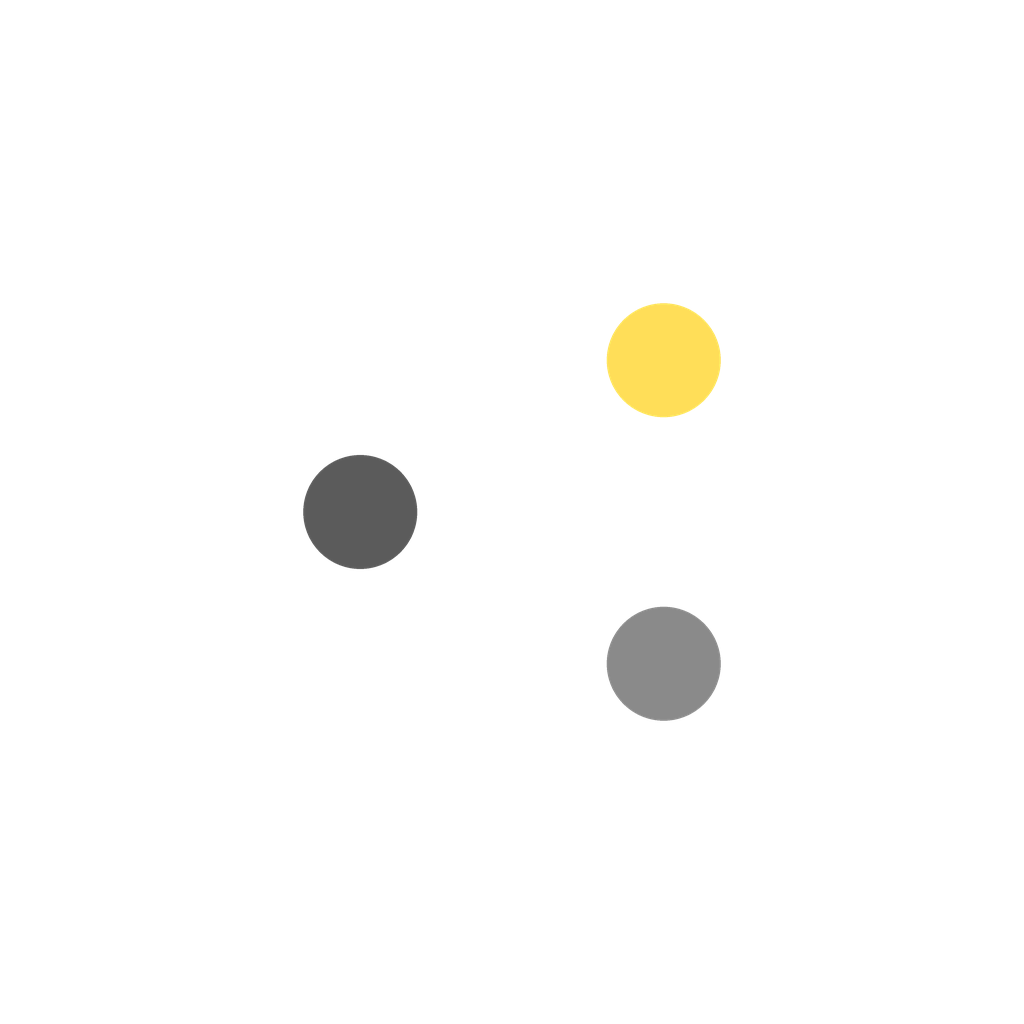
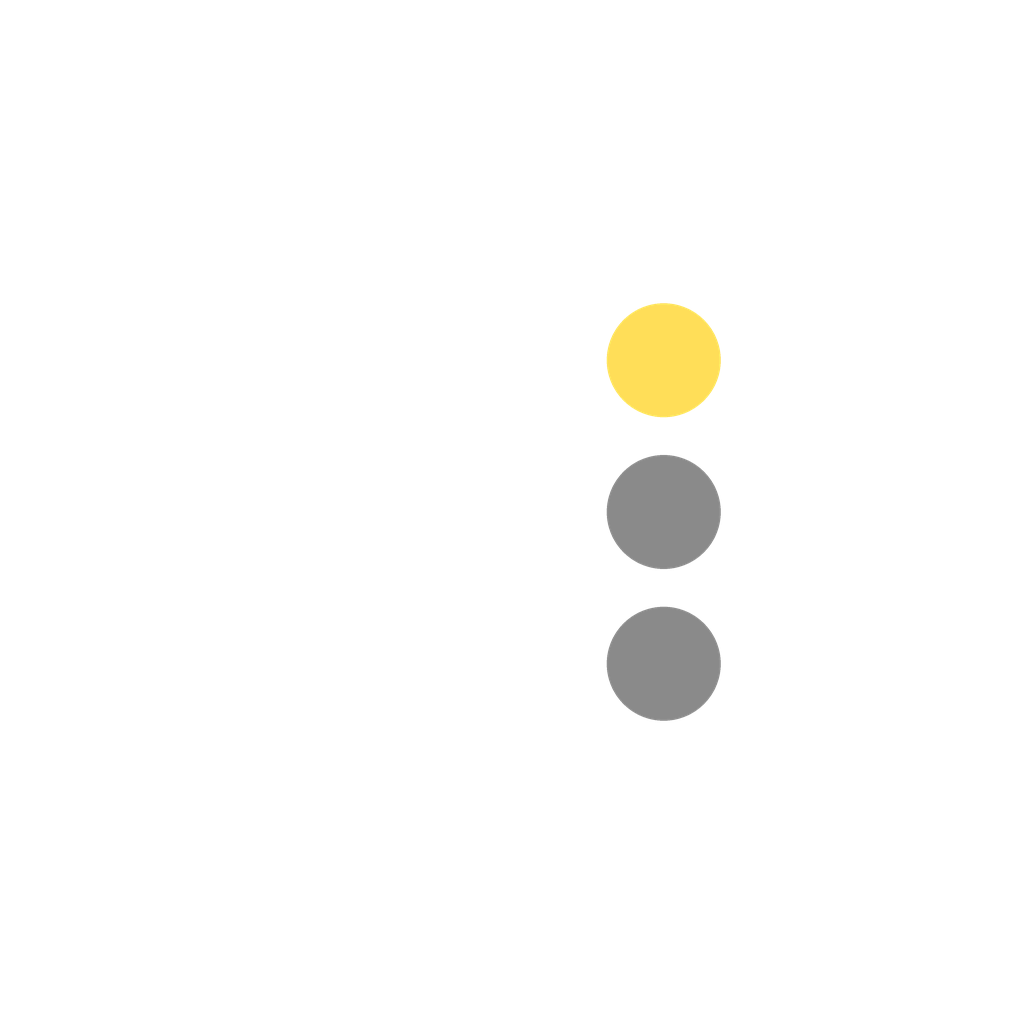
Lock the right column to yellow / muted / muted
Captain most-final 3×3: six whites, #FFDE58 top-right, and #8A8A8A on
middle-right and bottom-right. Middle-right is not white. No #5B5B5B.

Changed region(s): [[0.5938, 0.4375, 0.7188, 0.5625], [0.2812, 0.4375, 0.4062, 0.5625]]

diff --git a/__tests__/appIcon.test.ts b/__tests__/appIcon.test.ts
@@ -1,3 +1,4 @@
+import { execFileSync } from "node:child_process";
 import { existsSync, readdirSync, readFileSync } from "node:fs";
 import { join } from "node:path";
 
@@ -83,5 +84,28 @@ describe("GRIDGO app icon", () => {
     const names = readdirSync(images);
     expect(names.filter((name) => name.includes("react-logo"))).toEqual([]);
     expect(names).not.toContain("partial-react-logo.png");
+  });
+
+  it("paints yellow / muted / muted on the right column, whites elsewhere", () => {
+    const sampled = execFileSync(
+      "python3",
+      [
+        "-c",
+        [
+          "from pathlib import Path",
+          "import importlib.util, sys",
+          "root = sys.argv[1]",
+          "spec = importlib.util.spec_from_file_location('gen', root + '/scripts/generate-app-icon.py')",
+          "mod = importlib.util.module_from_spec(spec)",
+          "spec.loader.exec_module(mod)",
+          "print(mod.sample_grid(Path(root + '/assets/images/icon.png')))",
+        ].join("\n"),
+        root,
+      ],
+      { encoding: "utf8" },
+    ).trim();
+    expect(sampled).toBe(
+      "[['#FFFFFF', '#FFFFFF', '#FFDE58'], ['#FFFFFF', '#FFFFFF', '#8A8A8A'], ['#FFFFFF', '#FFFFFF', '#8A8A8A']]",
+    );
   });
 });

diff --git a/scripts/generate-app-icon.py b/scripts/generate-app-icon.py
@@ -1,16 +1,17 @@
 #!/usr/bin/env python3
-"""Rasterise the legacy printing_app adaptive mark.
+"""Rasterise the GRIDGO launcher mark.
 
-Source geometry (copy, do not invent):
-  printing_app/.../drawable/ic_launcher_foreground.xml
+Geometry from the legacy printing_app adaptive foreground:
   108×108 viewport, radius 6. Each path starts at the left of the circle
   (M32,38 / M48,38 / M64,38 and y 38/54/70), so centres are 38/54/70.
 
-Plate: #111111 (ic_launcher_background). Captain change from legacy:
-the middle-left dot (M32,54) is #5B5B5B, not white.
+Plate: #111111 (printing_app ic_launcher_background).
+
+Captain most-final 3×3 (2026-08-19). Middle-right is #8A8A8A, not white.
+No #5B5B5B anywhere.
 
     #FFFFFF  #FFFFFF  #FFDE58
-    #5B5B5B  #FFFFFF  #FFFFFF
+    #FFFFFF  #FFFFFF  #8A8A8A
     #FFFFFF  #FFFFFF  #8A8A8A
 
 Run from the repo root:
@@ -26,10 +27,16 @@ from PIL import Image, ImageDraw
 
 DOT_WHITE = (0xFF, 0xFF, 0xFF, 255)
 DOT_YELLOW = (0xFF, 0xDE, 0x58, 255)
-DOT_MID_LEFT = (0x5B, 0x5B, 0x5B, 255)
-DOT_BOTTOM_RIGHT = (0x8A, 0x8A, 0x8A, 255)
+DOT_MUTED = (0x8A, 0x8A, 0x8A, 255)
 PLATE = (0x11, 0x11, 0x11, 255)
 MONO = (0xFF, 0xFF, 0xFF, 255)
+
+# Captain most-final: right column is yellow, muted, muted.
+GRID = (
+    (DOT_WHITE, DOT_WHITE, DOT_YELLOW),
+    (DOT_WHITE, DOT_WHITE, DOT_MUTED),
+    (DOT_WHITE, DOT_WHITE, DOT_MUTED),
+)
 
 # Geometric centres of the legacy vector (path start + radius on x).
 VIEW = 108
@@ -45,13 +52,7 @@ OUT = ROOT / "assets" / "images"
 def dot_fill(col: int, row: int, *, mono: bool) -> tuple[int, int, int, int]:
     if mono:
         return MONO
-    if col == 2 and row == 0:
-        return DOT_YELLOW
-    if col == 0 and row == 1:
-        return DOT_MID_LEFT
-    if col == 2 and row == 2:
-        return DOT_BOTTOM_RIGHT
-    return DOT_WHITE
+    return GRID[row][col]
 
 
 def draw_mark(size: int, *, mono: bool = False) -> Image.Image:
@@ -84,6 +85,39 @@ def save_png(image: Image.Image, name: str) -> None:
     print(f"wrote {path.relative_to(ROOT)} ({image.size[0]}×{image.size[1]} {image.mode})")
 
 
+def hex_rgb(pixel: tuple[int, ...]) -> str:
+    return f"#{pixel[0]:02X}{pixel[1]:02X}{pixel[2]:02X}"
+
+
+def sample_grid(path: Path) -> list[list[str]]:
+    """Read the nine dot centres from a plate-composited raster."""
+    image = Image.open(path).convert("RGB")
+    width, height = image.size
+    rows: list[list[str]] = []
+    for cy in CENTRES:
+        row: list[str] = []
+        for cx in CENTRES:
+            x = min(width - 1, int(round(cx * width / VIEW)))
+            y = min(height - 1, int(round(cy * height / VIEW)))
+            row.append(hex_rgb(image.getpixel((x, y))))
+        rows.append(row)
+    return rows
+
+
+def verify_icon(path: Path) -> None:
+    expected = [
+        ["#FFFFFF", "#FFFFFF", "#FFDE58"],
+        ["#FFFFFF", "#FFFFFF", "#8A8A8A"],
+        ["#FFFFFF", "#FFFFFF", "#8A8A8A"],
+    ]
+    got = sample_grid(path)
+    if got != expected:
+        raise SystemExit(f"{path.name} grid {got} != {expected}")
+    plate = hex_rgb(Image.open(path).convert("RGB").getpixel((8, 8)))
+    if plate != "#111111":
+        raise SystemExit(f"{path.name} plate {plate} != #111111")
+
+
 def main() -> None:
     OUT.mkdir(parents=True, exist_ok=True)
 
@@ -94,6 +128,8 @@ def main() -> None:
     save_png(draw_mark(1024), "splash-icon.png")
     save_png(draw_mark(1024), "splash-icon-dark.png")
     save_png(composite_plate(draw_mark(48)), "favicon.png")
+    verify_icon(OUT / "icon.png")
+    print("verified icon.png 3×3")
 
 
 if __name__ == "__main__":
